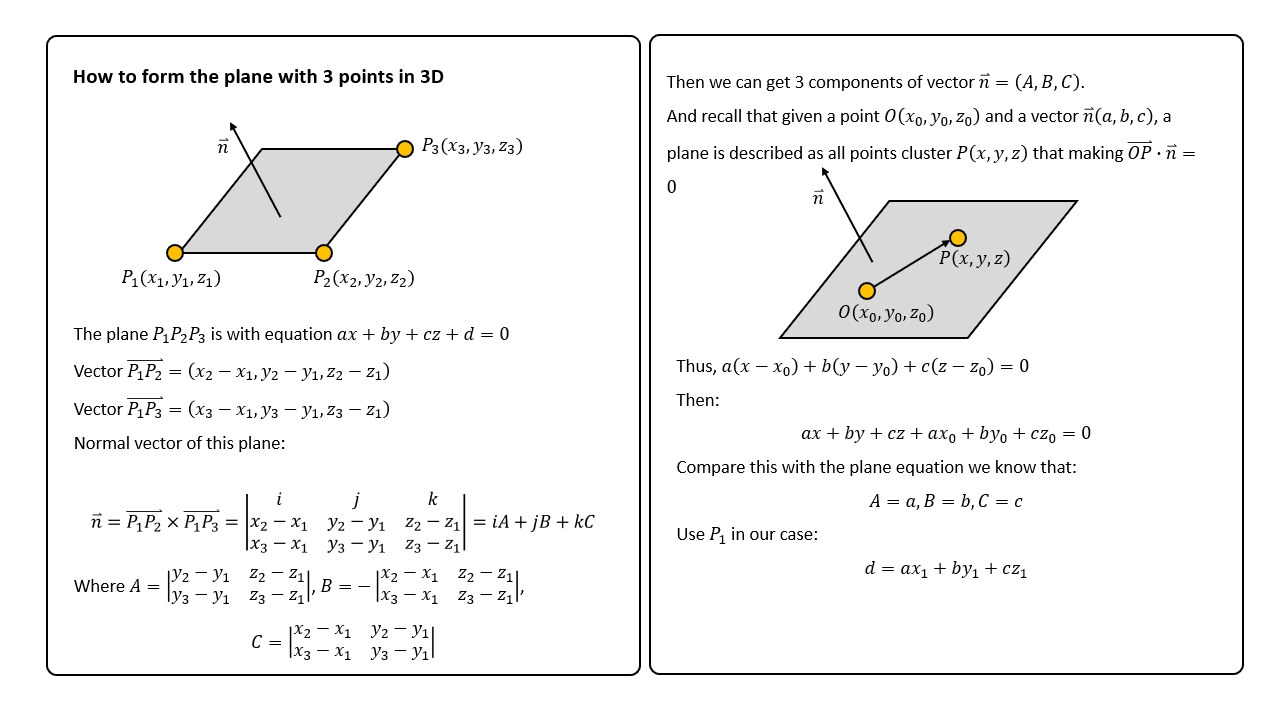
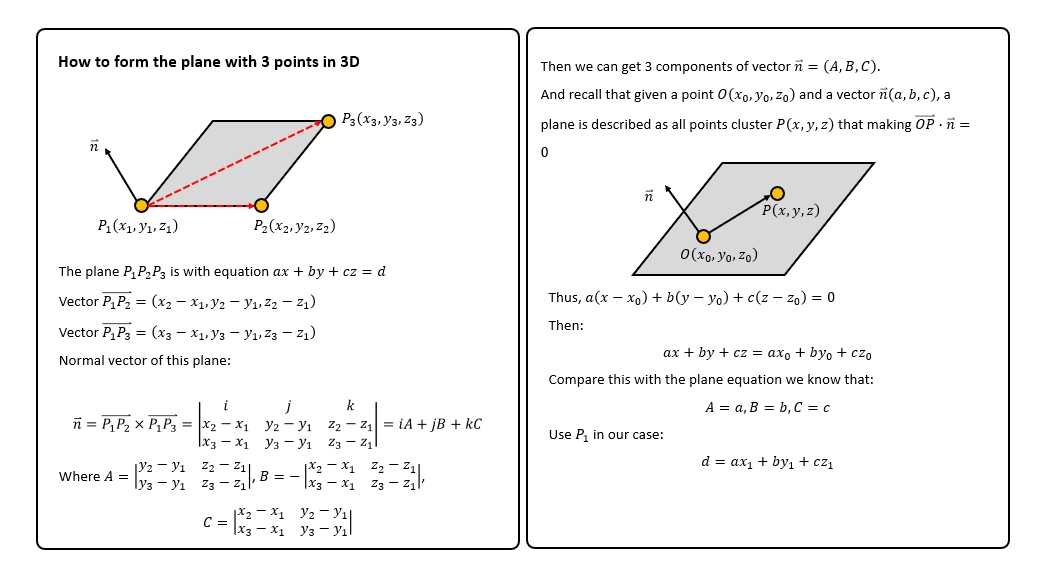
commit changes

diff --git a/generate_convex_hull.py b/generate_convex_hull.py
@@ -60,9 +60,14 @@ class ConvexHullQuickHull:
         
         return hull_faces
     
-    def update_hull(self, hull_faces: list, face, farthest_point):
+    def update_hull(self, hull_faces: list, face: list, farthest_point: list) -> list:
         """
         update the hull with the farthest point
+
+        hull_faces: list of faces: [[p1, p2, p3], [p1, p3, p4], ...]
+        face: the current face, a list of 3 points [(x1, y1, z1), (x2, y2, z2), (x3, y3, z3)]
+        farthest_point: the farthest point from the face, a list of 3 points [(x, y, z)]
+        return the updated hull_faces: list of faces with the farthest point added
         """
 
         # remove the current face
@@ -72,7 +77,7 @@ class ConvexHullQuickHull:
         new_faces = []
 
         for edge in get_edges(face):
-            new_face = plane_equation([edge[0], edge[1], farthest_point])
+            new_face = [edge[0], edge[1], farthest_point]
             new_faces.append(new_face)
         
         hull_faces.extend(new_faces)
@@ -123,17 +128,26 @@ class ConvexHullQuickHull:
         return flag
     
     @staticmethod
-    def find_distance_point_line(point_A, point_B, point):
-        
-        # find k and b of the line formed by point A and point B
+    def line_equation(point_A, point_B):
+        """
+        form the line from point A to point B
+
+        return coefficients of ax + by + c = 0
+        """
         slope_k = (point_B[1] - point_A[1]) / (point_B[0] - point_A[0])
         bias_b  = point_A[1] - slope_k * point_A[0]
+
+        a = slope_k
+        b = -1
+        c = bias_b
+        return a, b, c
+
+    def find_distance_point_line(self, point_A, point_B, point):
         
-        # find the distance from point to line AB
-        x, y = point[0], point[1]
-        distance = abs(slope_k * x - y + bias_b) / (slope_k ** 2 + 1) ** 0.5
+        # find k and b of the line formed by point A and point B
+        a, b, c = self.line_equation(point_A, point_B)
         
-        return distance
+        return abs(a * point[0] + b * point[1] + c) / (a ** 2 + b ** 2) ** 0.5
 
     def plot_convex_hull(self):
 
@@ -177,11 +191,14 @@ class ConvexHullQuickHull:
             plt.show()
 
         elif self.dimension == 3:
+
+            # init the figure and axes
             fig = plt.figure(figsize=(5, 10))
             
             ax1 = fig.add_subplot(2, 1, 1, projection='3d')  # 2 rows, 1 column, first subplot
             ax2 = fig.add_subplot(2, 1, 2, projection='3d')  # 2 rows, 1 column, second subplot
-
+            
+            # plotting for ax1: just the points
             x = [point[0] for point in self.points]
             y = [point[1] for point in self.points]
             z = [point[2] for point in self.points]
@@ -190,3 +207,5 @@ class ConvexHullQuickHull:
             ax1.set_zlabel("Z")
 
             ax1.scatter(x, y, z, s=20, edgecolors="black", marker="o", c='orange')
+
+            # plotting for ax2: points and the convex hull

diff --git a/convex_hull.py b/convex_hull.py
@@ -10,10 +10,10 @@ points_set = points_set_model.points
 hull_model = ConvexHullQuickHull(points=points_set, dimension=2)
 hull_model.plot_convex_hull()
 
-# create random points
-points_set_model = PointsGenerator(dimension=3, number_range=[-1, 10], number_points=10)
-points_set = points_set_model.points
+# # create random points
+# points_set_model = PointsGenerator(dimension=3, number_range=[-1, 10], number_points=10)
+# points_set = points_set_model.points
 
-# generate convex hull of such poins set
-hull_model = ConvexHullQuickHull(points=points_set, dimension=2)
-hull_model.plot_convex_hull()
+# # generate convex hull of such poins set
+# hull_model = ConvexHullQuickHull(points=points_set, dimension=2)
+# hull_model.plot_convex_hull()

diff --git a/helper.py b/helper.py
@@ -15,7 +15,7 @@ def plane_equation(p1, p2, p3):
 
     normal = np.cross(p1_p2, p1_p3)
     a, b, c = normal
-    d = np.dot(normal, p1)
+    d = a * p1[0] + b * p1[1] + c * p1[2]
     return a, b, c, d
 
 def is_point_outside(face, point, epsilon=1e-6):

diff --git a/README.md b/README.md
@@ -7,7 +7,7 @@ Some preknowledge of 2D version of the convex hull algorithm:
 2. Recursive algorithm (this helps recursively find new point that is beyond current process)
 
 Also a quick tip in finding `min` points by components in the list: 
-
+Code for reference:
 ```python
 # suppose there is a list of points, each point in (x, y) format:
 number = [(3, 2), (8, 1), (10, 6)]
@@ -20,19 +20,120 @@ print("The smallest y number is:", smallest_y_number)  # expected output: (8, 1)
 Some key geometry problems in this 2D convex hull:
 1. The concept on how to judge if point $C$ is on the upper/left side of line $AB$ or on the right side of line $AB$:
 ![Judge if $C$ is on upper or lower side of line $AB$](images/judge_C_on_which_side_AB.png)
+Code for reference:
+```python
+def is_left_2D(point_A, point_B, p):
+        flag = (point_B[0] - point_A[0]) * (p[1] - point_B[1]) - (p[0] - point_B[0]) * (point_B[1] - point_A[1]) > 0
+        return flag
+```
 2. How to find the distance from a point to a line. Here is 2 approaches I have derived to describe this problem (I recommend approach 2 if you are familiar with vector knowledge): 
 ![Compute distance from point to a line - Approach 1](images/find_distance_point_line_1.png)
 ![Compute distance from point to a line - Approach 2](images/find_distance_point_line_2.png)
+Code for reference:
+```python
+def line_equation(point_A, point_B):
+    """
+    form the line from point A to point B
 
+    return ax + by + c = 0
+    """
+    slope_k = (point_B[1] - point_A[1]) / (point_B[0] - point_A[0])
+    bias_b  = point_A[1] - slope_k * point_A[0]
+
+    a = slope_k
+    b = -1
+    c = bias_b
+    return a, b, c
+
+def find_distance_point_line(self, point_A, point_B, point):
+    
+    # find k and b of the line formed by point A and point B
+    a, b, c = self.line_equation(point_A, point_B)
+    
+    return abs(a * point[0] + b * point[1] + c) / (a ** 2 + b ** 2) ** 0.5
+```
 As for 3D convex hull problem, some geometry problems should be known before diving in:
 1. How to form a plane equation in 3D with 3 points $P_1$, $P_2$ and $P_3$:
 ![The way to form a plane equation with 3 points $P_1$, $P_2$ and $P_3$](images/how_to_form_a_plane_with_3_points.png)
+Code for reference:
+```python
+def plane_equation(p1, p2, p3):
+    """
+    returns the plane equation's coefficients with given points p1, p2, p3
+    p1: (x1, y1, z1)
+    p2: (x2, y2, z2)
+    p3: (x3, y3, z3)
+
+    return a, b, c, d where ax + by + cz = d
+    """
+    p1_p2 = [p2[i] - p1[i] for i in range(len(p1))]
+    p1_p3 = [p3[i] - p1[i] for i in range(len(p1))]
+
+    normal = np.cross(p1_p2, p1_p3)
+    a, b, c = normal
+    d = a * p1[0] + b * p1[1] + c * p1[2]
+    return a, b, c, d
+```
+
 2. How to find the distance from a point to a plane:
 ![The way to find the distance between a point $P$ and a plane $\alpha$](images/find_distance_from_point_to_a_plane.png)
+Code for reference:
+```python
+def perpendicular_dist(face, point: list):
+    """
+    returns the perpendicular distance from the point to the face
+    face: list of 3 points: [(x1, y1, z1), (x2, y2, z2), (x3, y3, z3)]
+    point: (x, y, z) of a point not on the face
 
-Then here comes the overall idea of convex hull algorithm:
+    return the distance from the point to the face
+    """
+
+    a, b, c, d = plane_equation(face)
+    x, y, z = point
+    return abs(a * x + b * y + c * z - d) / (a ** 2 + b ** 2 + c ** 2) ** 0.5
+```
+
+3. How to judge if a point is outside the plane and it is on the same side as the plane's normal vector:
+![Judge if the point is outside of the plane, step 1](images/judge_point_outside_a_plane_1.png)
+![Judge if the point is outside of the plane, step 2](images/judge_point_outside_a_plane_2.png)
+Code for reference:
+```python
+def is_point_outside(face, point, epsilon=1e-6):
+    """
+    check if the point is outside the face
+    face:  list of 3 points: [(x1, y1, z1), (x2, y2, z2), (x3, y3, z3)]
+    point: (x, y, z) of a point
+
+    check if ax + by + cz > d, return True if it is
+    """
+    a, b, c, d = plane_equation(face)
+    x, y, z = point
+    return a * x + b * y + c * z - d > epsilon
+```
+
+Then here comes the overall idea of convex hull algorithm of 2D:
+
+1. Find the rightmost and leftmost point $A$ and point $B$. Divide the points into left and right half based on line $AB$.
 ![Convex hull algorithm step 1](images/convex_hull_1.png)
+2. For each half of the points, find its hull.
 ![Convex hull algorithm step 2](images/convex_hull_2.png)
+3. Details on how to find its hull: left hull case.
 ![Convex hull algorithm step 3](images/convex_hull_3.png)
+4. Details on how to find its hull: right hull case.
 ![Convex hull algorithm step 4](images/convex_hull_4.png)
+5. Combine the left hull and right hull.
 ![Convex hull algorithm step 5](images/convex_hull_5.png)
+
+Here comes the overall idea of convex hull algorithm of 3D:
+1. Find all extreme points `min_x`, `max_x`, `min_y`, `max_y`, `min_z` and `max_z`. Create tetrahedron out of 4 non-coplanar points from those extreme points.
+![Find extreme points](images/convex_hull_3D_1.png)
+2. Create faces based on this tetrahedron $P_{1}P_{2}P_{3}P_{4}$.
+![Create tetrahedron](images/convex_hull_3D_2.png)
+3. Find points that are outside of each face. 
+![Find points that are outside of each face](images/convex_hull_3D_3.png)
+4. Find the farthest point from these outside points.
+![Find the farthest point](images/convex_hull_3D_4.png)
+5. Find the edges of each face.
+![Find the edges of each face](images/convex_hull_3D_5.png)
+6. Extend hull faces.
+![Extend hull faces of each face](images/convex_hull_3D_6.png)
